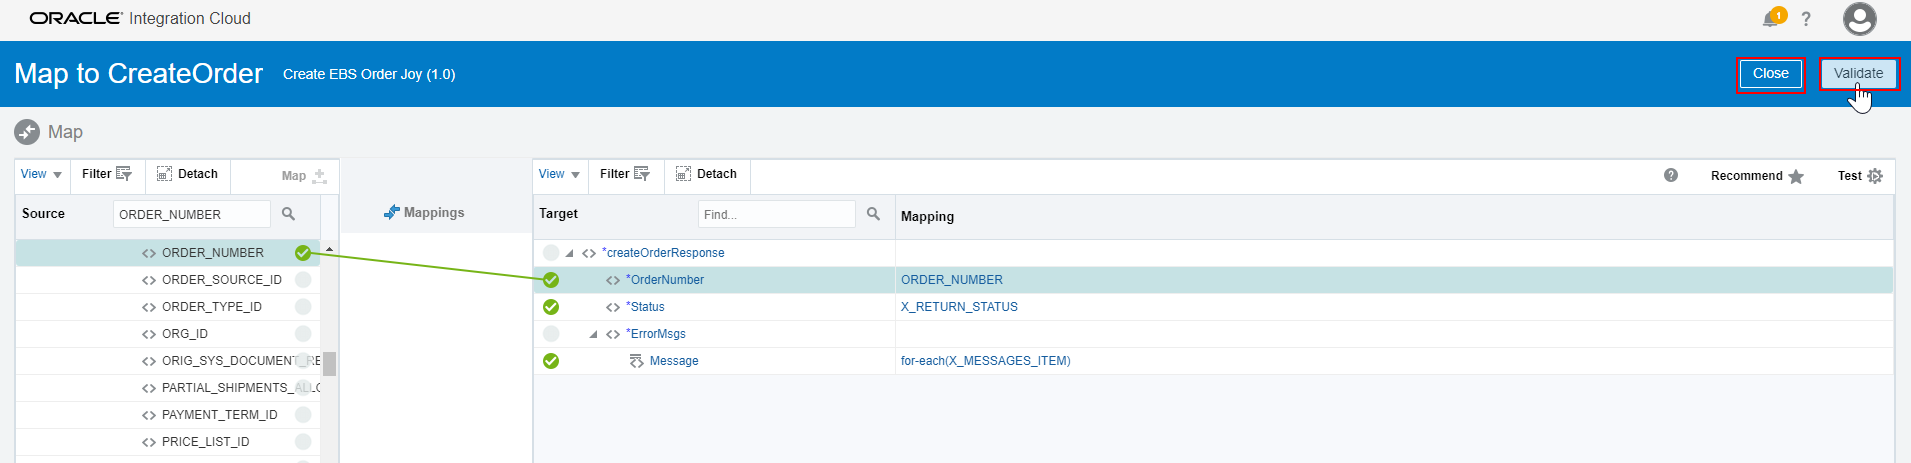
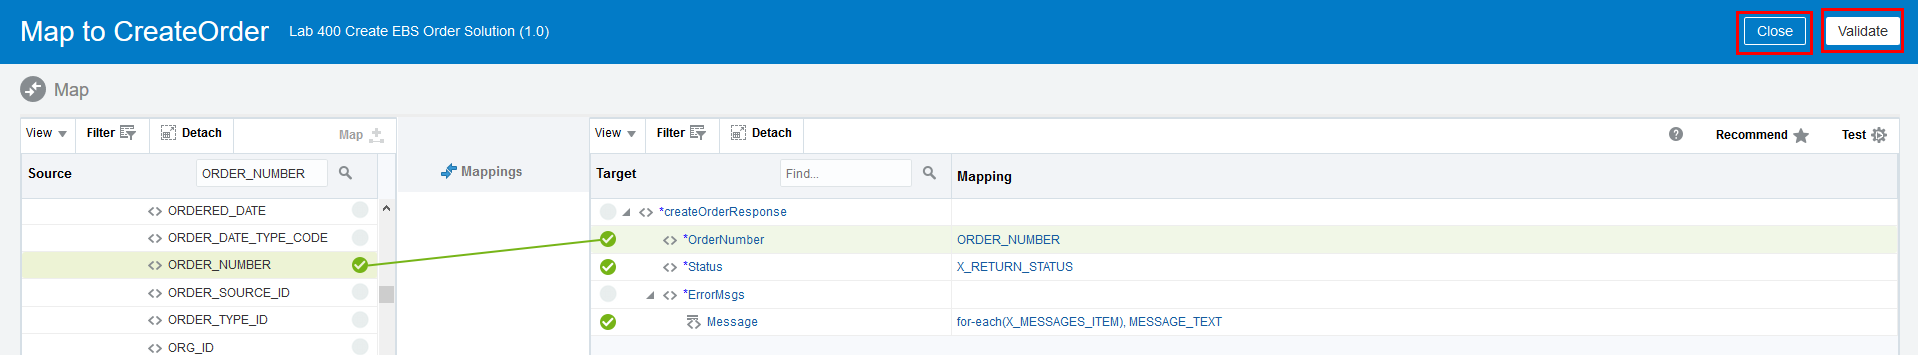
Made changes to Lab 400

diff --git a/ics400.md b/ics400.md
@@ -537,9 +537,11 @@ Progress Note: You have now already mapped 9 of the 21 target variables so we ar
 
 - Enter the value _12.0_ in the 3rd parameter for the `substring()` function and this advanced mapping is done.
 
+	![](images/400/lab4026a.png)
+
 - Select the _Save_, then _Close_ buttons
 
-	![](images/400/lab4026.png)
+	![](images/400/lab4026b.png)
 
 - Next, we want to set the current date to the `ORDERED_DATE` header target variable.  Enter the target attribute name `ORDERED_DATE` in the search field, then click on the search *magnifying glass*.
 
@@ -722,6 +724,20 @@ Progress Note: You've mapped the 21 target variables and are almost done... but 
 - Click and drag the `X_MESSAGES_ITEM` source variable over to the target `ErrorMsgs -> Message` variable.
 
 	![](images/400/lab4048.png)
+
+- Click on the `Message` field to bring up the advanced mapping editor for that field.
+
+	![](images/400/lab4048a.png)
+
+- Expand the _Source_ fields to expose _MESSAGE_TEXT_ field under `OutputParameters -> X_MESSAGES -> X_MESSAGES_ITEM`
+
+- Click and drag the `MESSAGE TEXT` over to the `<nstrqmpr:Message>` target.
+
+	![](images/400/lab4048b.png)
+
+- Select the `Save`, then `Close` buttons
+
+	![](images/400/lab4048c.png)
 
 - Click and drag the source variable `X_RETURN_STATUS` over to the target `Status` variable
 
